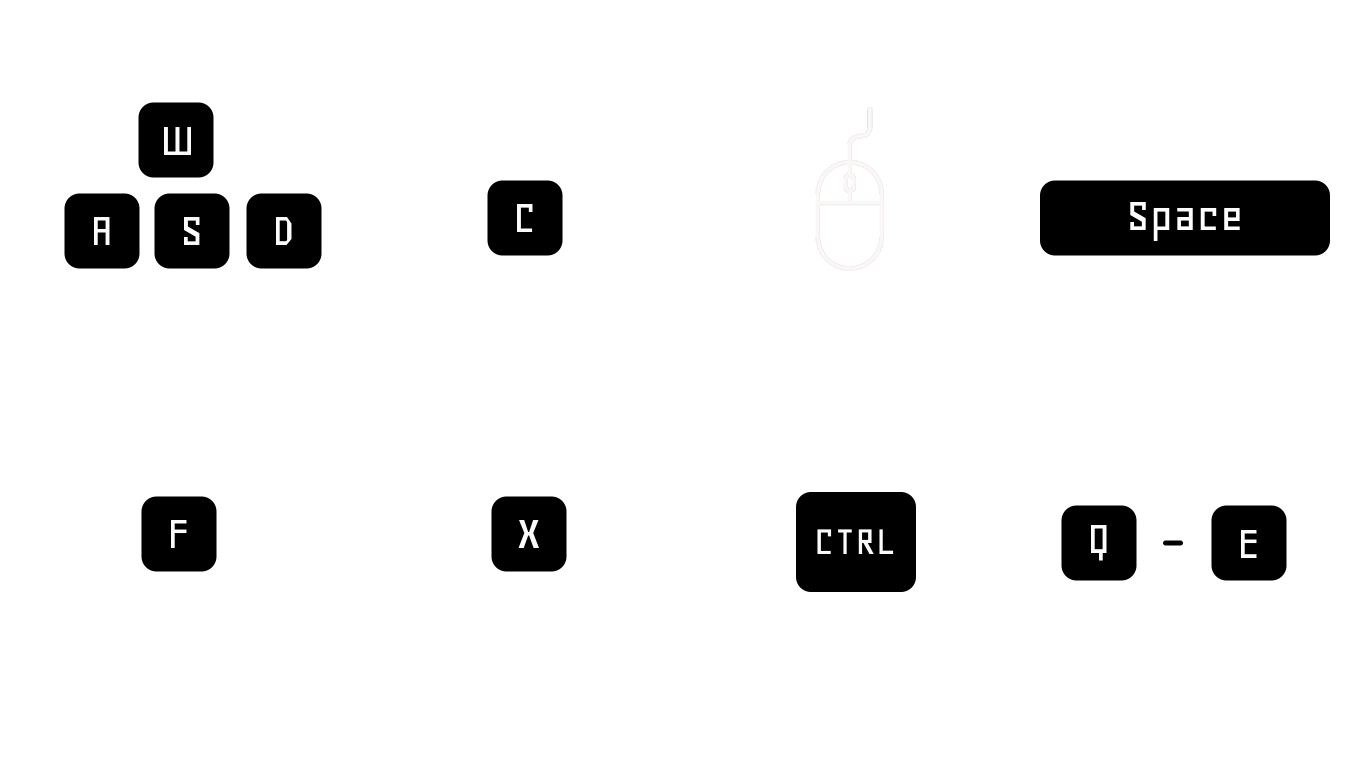
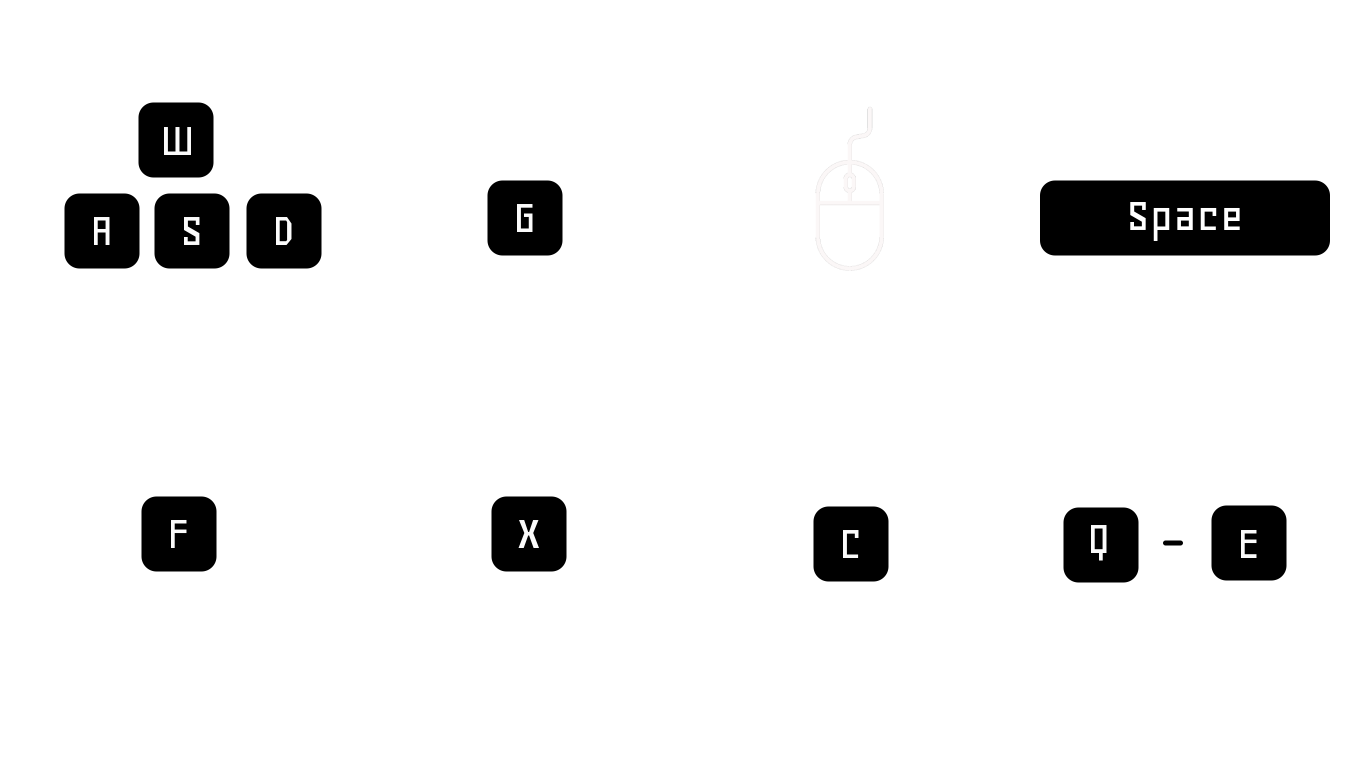
added crouch fix

Changed region(s): [[0.5842, 0.625, 0.6764, 0.7812], [0.7687, 0.6562, 0.8302, 0.6875], [0.7994, 0.75, 0.8302, 0.7812]]

diff --git a/src/components/Phone.tsx b/src/components/Phone.tsx
@@ -76,8 +76,7 @@ export default function Model(props: ModelProps) {
 
   useEffect(() => {
     const keyDownListener = (e: KeyboardEvent) => {
-      
-      if (e.key === "c" || e.key === "C" ) {
+      if (e.key === "g" || e.key === "G" ) {
         if(phoneRef.current !== null){
           phoneRef.current.visible = true
           // Set the phone's position in front of the camera
@@ -107,7 +106,6 @@ export default function Model(props: ModelProps) {
             
             setTimeout(() => props.openPhoneModal(), 300)
           }
-
         }
         
       }

diff --git a/src/components/Person.tsx b/src/components/Person.tsx
@@ -117,7 +117,7 @@ const BaseCharacter = (props: BaseCharacterProps) => {
   useEffect(() => {
     const keyDownListener = (e: KeyboardEvent) => {
  
-      if (e.key === "Control" ) {
+      if (e.key === "c" || e.key === "C") {
        if (isCrouching == false) {
           console.log('crouch')
           setIsCrouching(true)
